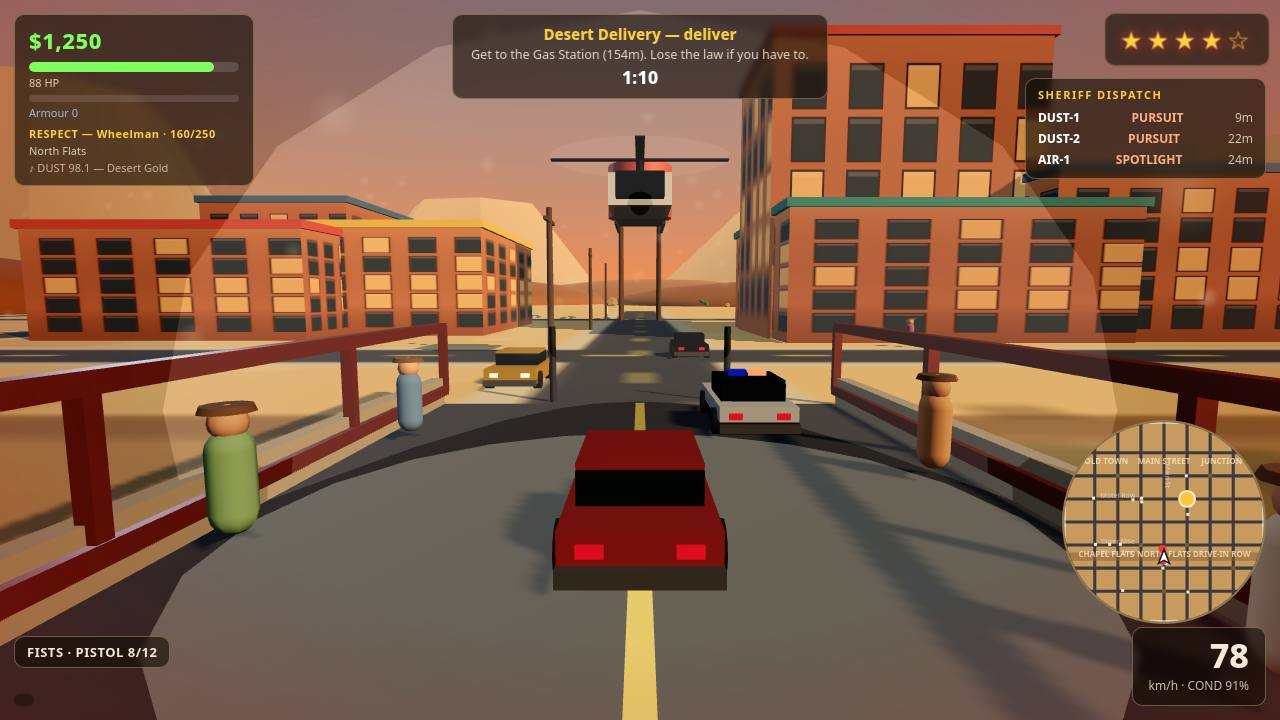
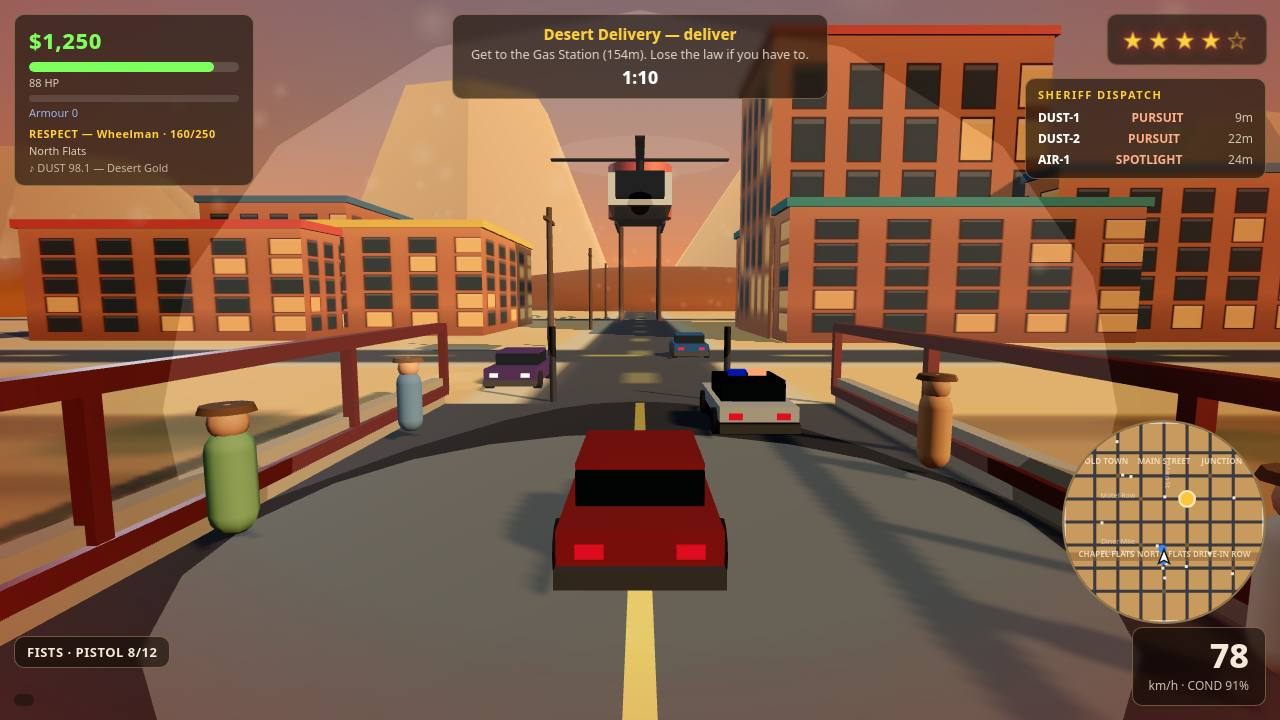
Dusthaven round 4 revision: heli clear of the pole, cruiser unblocked, foot shot reframe
Shot 1: heli moved to (-5,7,-65) — the old (15,8,-60) spot sat directly
behind the avenue telephone pole, so the pole bisected it and it read as
a traffic light; now the body clears the pole and the rotor reads big.
Traffic car 0 moved to the oncoming lane — its old spot (-14,-58) sat in
the chase lane and hid the white-and-black lead cruiser behind a green
civilian; the cruiser is now the car directly ahead, light bar showing.
AIR-1 dispatch dist 35 -> 16 (actual staged distance).

Shot 2: Rook moved east to (-24,-64.5) — the DUSTY PAWN sign sits 4 m
east of his old line, so orbiting the camera could not move it (yaw
+0.26 moved the sign RIGHT, AWN still under the panel); moving Rook
puts the sign 2 m west of his line, fully readable clear of the panel.
Deputy rebuilt as a sheriff (tan shirt, dark trousers/belt, cream
campaign hat, gold star badge) and staged 2.5 m in front of Rook in a
cleared bubble, facing him. Foot-shot-only fill light (hemi 2.0, bounce
1.6) lifts the shadowed foreground from a black band to readable asphalt.

Shots 3-4 unchanged. All round-3 fixes kept.

diff --git a/game/src/main.js b/game/src/main.js
@@ -664,13 +664,22 @@ function applyShotMode(shot) {
     });
     // Roadblock barriers across the road ahead, held by the third cruiser.
     police.placeRoadblock(28, -60, Math.PI / 2);
-    // Helicopter low over the road ahead (round 4 fix: the first staging put
-    // it at 38m, ~49° above the camera's view axis — out of frame. At 8m
-    // over the road centreline, 35m ahead, it reads top-centre of the frame
-    // with its beam running back down the road to the player car).
-    heli.place(15, 8, -60, -20, -60);
-    // Traffic on the road around the chase.
-    stageCar(0, -14, -58, Math.PI / 2);
+    // Helicopter low and close over the road ahead (revision, round 4:
+    // the first staging put it at 38 m (out of frame), the round-4 fix at
+    // (15, 8, -60) parked it directly behind the avenue's telephone pole
+    // at x=5.5, so the pole bisected it and it read as a traffic light.
+    // At (-5, 7, -65) it is 15 m ahead, 7 m up and 5 m north of the
+    // centreline: the body sits clear left of the pole, the rotor reads
+    // big across the top of the frame, and the beam runs back down the
+    // road to the player car.
+    heli.place(-5, 7, -65, -20, -60);
+    // Traffic on the road around the chase. Car 0 rides the ONCOMING lane
+    // heading west (revision: the old spot (-14,-58) sat in the chase lane
+    // directly ahead of the player, so the green civilian hid the lead
+    // cruiser behind it — the frame read as one green car, no police).
+    // With the lane clear, the white-and-black lead cruiser is the car
+    // directly ahead of the player, light bar showing.
+    stageCar(0, -14, -62, -Math.PI / 2);
     stageCar(1, -48, -62, -Math.PI / 2);
     stageCar(2, 44, -58, Math.PI / 2);
     stageCar(3, -2, -20, 0);
@@ -698,7 +707,7 @@ function applyShotMode(shot) {
         { callsign: 'DUST-1', role: 'RAMMING', dist: 12 },
         { callsign: 'DUST-2', role: 'PURSUIT', dist: 12 },
         { callsign: 'DUST-3', role: 'ROADBLOCK', dist: 48 },
-        { callsign: 'AIR-1', role: 'SPOTLIGHT', dist: 35 },
+        { callsign: 'AIR-1', role: 'SPOTLIGHT', dist: 16 },
       ],
       speedKmh: 94, inCar: true,
       objectiveTitle: 'First Job — deliver',
@@ -713,36 +722,60 @@ function applyShotMode(shot) {
     // synced by hand here — the frozen branch never runs player.update(),
     // so without this Rook stays at his boot spot and the frame shows an
     // empty street (first version of this shot proved it).
-    player.state.pos.set(-30, 0, -64.5);
+    // Revision, round 4 (second pass): Rook stands at (-24,-64.5), 4 m
+    // east of the old spot. The DUSTY PAWN sign sits 4 m east of Rook's
+    // old line, so orbiting the camera around him could not move it: the
+    // sign is 10 m out and 8 m wide, and the parallax nearly cancels the
+    // yaw (the first attempt, yaw +0.26, moved the sign RIGHT, and its
+    // "AWN" stayed under the dispatch panel). Moving Rook east puts the
+    // sign 2 m WEST of his line instead, so it lands left of centre,
+    // its final "N" ~250 px clear of the panel. Rook stays centred — the
+    // rig looks at him, not along the yaw.
+    player.state.pos.set(-24, 0, -64.5);
     player.state.heading = Math.PI; // faces the shops (north, -z)
-    player.mesh.position.set(-30, 0, -64.5);
+    player.mesh.position.set(-24, 0, -64.5);
     player.mesh.rotation.y = Math.PI;
     player.mesh.visible = true;
     rig.mode = 'foot';
     rig.yaw = Math.PI;
-    rig.pitch = 0.18; // flatter than the live 0.32: less shadowed near-ground
+    rig.pitch = 0.14; // flatter than the live 0.32: less shadowed near-ground
     setState('playing');
     police.setWanted(2);
     police.update(0, { pos: player.state.pos, speed: 0, inCar: false, carState: null, heading: Math.PI }, 0);
     if (police.deputies[0]) {
       const dep = police.deputies[0];
-      dep.pos.set(-28, 0, -67);
-      dep.heading = Math.atan2(-30 - -28, -64.5 - -67);
-      dep.mesh.position.set(-28, 0, -67);
+      // Revision (second pass): the deputy stands 2.5 m west and 2.5 m in
+      // front of Rook — close enough to read as a face-off, far enough to
+      // clear Rook in the frame, facing him squarely with the star badge
+      // toward the camera. The old spot (-28,-67) sat inside the crowd.
+      dep.pos.set(-26.5, 0, -67);
+      dep.heading = Math.atan2(-24 - -26.5, -64.5 - -67);
+      dep.mesh.position.set(-26.5, 0, -67);
       dep.mesh.rotation.y = dep.heading;
     }
     // Crowd along the north sidewalk, strolling past the shop fronts.
+    // Bubble around the face-off: any ped whose slot falls in the
+    // clearing (x -30..-22) steps 8 m east, so Rook and the deputy stand
+    // alone in front of the pawn shop instead of inside the crowd.
     traffic.peds.forEach((ped, i) => {
       const x = -48 + (i % 8) * 4.9;
+      const bx = (x > -30 && x < -22) ? x + 8 : x;
       const z = -66 + (i % 3) * 0.8;
-      ped.pos.set(x, 0, z);
+      ped.pos.set(bx, 0, z);
       ped.heading = i % 2 === 0 ? Math.PI / 2 : -Math.PI / 2;
-      ped.mesh.position.set(x, 0, z);
+      ped.mesh.position.set(bx, 0, z);
       ped.mesh.rotation.y = ped.heading;
     });
     stageCar(0, -14, -58, Math.PI / 2);
     stageCar(1, -48, -62, -Math.PI / 2);
     world.storm = 0;
+    // Fill light for this shot only: the foreground road sits in the pawn
+    // shop's shadow (low sun from the north-west), so the bottom third
+    // rendered as a black band. A stronger hemisphere + bounce lifts the
+    // shadowed asphalt to a readable dark grey without touching the
+    // golden-hour key — the other shots keep their own light.
+    world.hemi.intensity = 2.0;
+    world.bounce.intensity = 1.6;
     game.shotFreeze = true;
     hud = {
       health: 100, armour: 0, cash: game.cash, wanted: 2,
@@ -750,7 +783,7 @@ function applyShotMode(shot) {
       district: 'Main Street', radio: 'DUST 98.1 — Desert Gold',
       ammo: 12, condition: null,
       nitroOwned: false, nitroPct: 100,
-      dispatch: [{ callsign: 'DUST-1', role: 'SEARCHING', dist: 3 }],
+      dispatch: [{ callsign: 'DUST-1', role: 'SEARCHING', dist: 4 }],
       speedKmh: 0, inCar: false,
       objectiveTitle: 'Main Street — on foot',
       objectiveText: 'The sheriff is watching. Keep walking or run.',

diff --git a/game/src/police.js b/game/src/police.js
@@ -133,19 +133,57 @@ export function createPolice(scene, colliders, audio) {
     roadblock.mesh = null;
   }
 
+  // Sheriff uniform (revision, round 4): a deputy must read as LAW at a
+  // glance, not as another pedestrian — pedestrians wear varied coloured
+  // shirts and brown hats, so the deputy gets a tan sheriff's shirt, dark
+  // trousers and belt, a cream campaign hat with a dark band, and a gold
+  // star badge on the chest. Slightly taller than a ped.
+  function starShape(points, outer, inner) {
+    const s = new THREE.Shape();
+    for (let i = 0; i < points * 2; i++) {
+      const r = i % 2 === 0 ? outer : inner;
+      const a = (i / (points * 2)) * Math.PI * 2 - Math.PI / 2;
+      const px = Math.cos(a) * r, py = Math.sin(a) * r;
+      if (i === 0) s.moveTo(px, py); else s.lineTo(px, py);
+    }
+    s.closePath();
+    return s;
+  }
+
   function spawnDeputy(x, z) {
     const g = new THREE.Group();
-    const bodyMat = new THREE.MeshStandardMaterial({ color: 0x2b2b2e, roughness: 0.85 });
+    const shirtMat = new THREE.MeshStandardMaterial({ color: 0xc2a878, roughness: 0.85 });
+    const darkMat = new THREE.MeshStandardMaterial({ color: 0x2b2b2e, roughness: 0.85 });
     const skinMat = new THREE.MeshStandardMaterial({ color: 0xc98d6a, roughness: 0.7 });
-    const body = new THREE.Mesh(new THREE.CapsuleGeometry(0.34, 0.95, 4, 8), bodyMat);
-    body.position.y = 1.05;
-    body.castShadow = true;
+    for (const lx of [-0.15, 0.15]) {
+      const leg = new THREE.Mesh(new THREE.CylinderGeometry(0.13, 0.15, 0.7, 8), darkMat);
+      leg.position.set(lx, 0.35, 0);
+      leg.castShadow = true;
+      g.add(leg);
+    }
+    const torso = new THREE.Mesh(new THREE.CapsuleGeometry(0.34, 0.55, 4, 8), shirtMat);
+    torso.position.y = 1.15;
+    torso.castShadow = true;
+    g.add(torso);
+    const belt = new THREE.Mesh(new THREE.CylinderGeometry(0.35, 0.35, 0.09, 10), darkMat);
+    belt.position.y = 0.82;
+    g.add(belt);
+    const star = new THREE.Mesh(
+      new THREE.ShapeGeometry(starShape(5, 0.13, 0.055)),
+      new THREE.MeshBasicMaterial({ color: 0xffc53d }),
+    );
+    star.position.set(-0.12, 1.38, 0.35);
+    g.add(star);
     const head = new THREE.Mesh(new THREE.SphereGeometry(0.27, 10, 8), skinMat);
-    head.position.y = 1.9;
-    const hat = new THREE.Mesh(new THREE.CylinderGeometry(0.3, 0.32, 0.16, 10),
-      new THREE.MeshStandardMaterial({ color: 0x1c1c22, roughness: 0.7 }));
-    hat.position.y = 2.1;
-    g.add(body, head, hat);
+    head.position.y = 1.95;
+    head.castShadow = true;
+    const hat = new THREE.Mesh(new THREE.CylinderGeometry(0.3, 0.34, 0.14, 10),
+      new THREE.MeshStandardMaterial({ color: 0xd8c8a8, roughness: 0.8 }));
+    hat.position.y = 2.16;
+    const band = new THREE.Mesh(new THREE.CylinderGeometry(0.31, 0.31, 0.05, 10), darkMat);
+    band.position.y = 2.11;
+    g.add(head, hat, band);
+    g.scale.setScalar(1.06);
     g.position.set(x, 0, z);
     scene.add(g);
     deputies.push({
